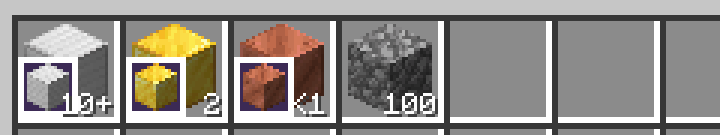
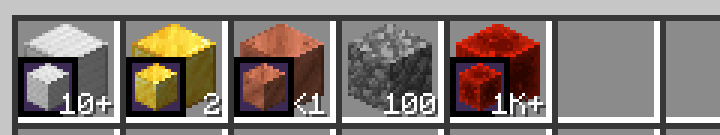
Phase 6b readable badge screenshots
Claude-Session: https://claude.ai/code/session_01RSz5r6eowhjNuANBjZE2v6

diff --git a/phase6b/README.md b/phase6b/README.md
@@ -33,9 +33,9 @@ Extraction read back from the player inventory after each shift-click:
 
 ## Slot badges (phase6b-2-slot-badge.txt)
 
-Compressed slots show the form that clicks take in a small framed badge in the bottom left corner, and a "+" after the count when smaller forms are left over.
+Compressed slots show the form that clicks take in a small purple badge in the bottom left corner, and a "+" after the count when smaller forms are left over.
 
 | Screenshot | Shows |
 |---|---|
-| `phase6b-badges-default.png` (`-zoom`) | Iron 10 blocks and 5 ingots ("10+"), gold 18 ingots ("2", whole), copper 4 ingots ("<1"), and uncompressed cobblestone without a badge |
+| `phase6b-badges-default.png` (`-zoom`) | Iron 10 blocks and 5 ingots ("10+"), gold 18 ingots ("2", whole), copper 4 ingots ("<1"), uncompressed cobblestone without a badge, and 1,000 redstone blocks and 1 redstone ("1K+") |
 | `phase6b-badges-ingots.png` (`-zoom`) | After scrolling on the iron slot, its badge shows an ingot |
